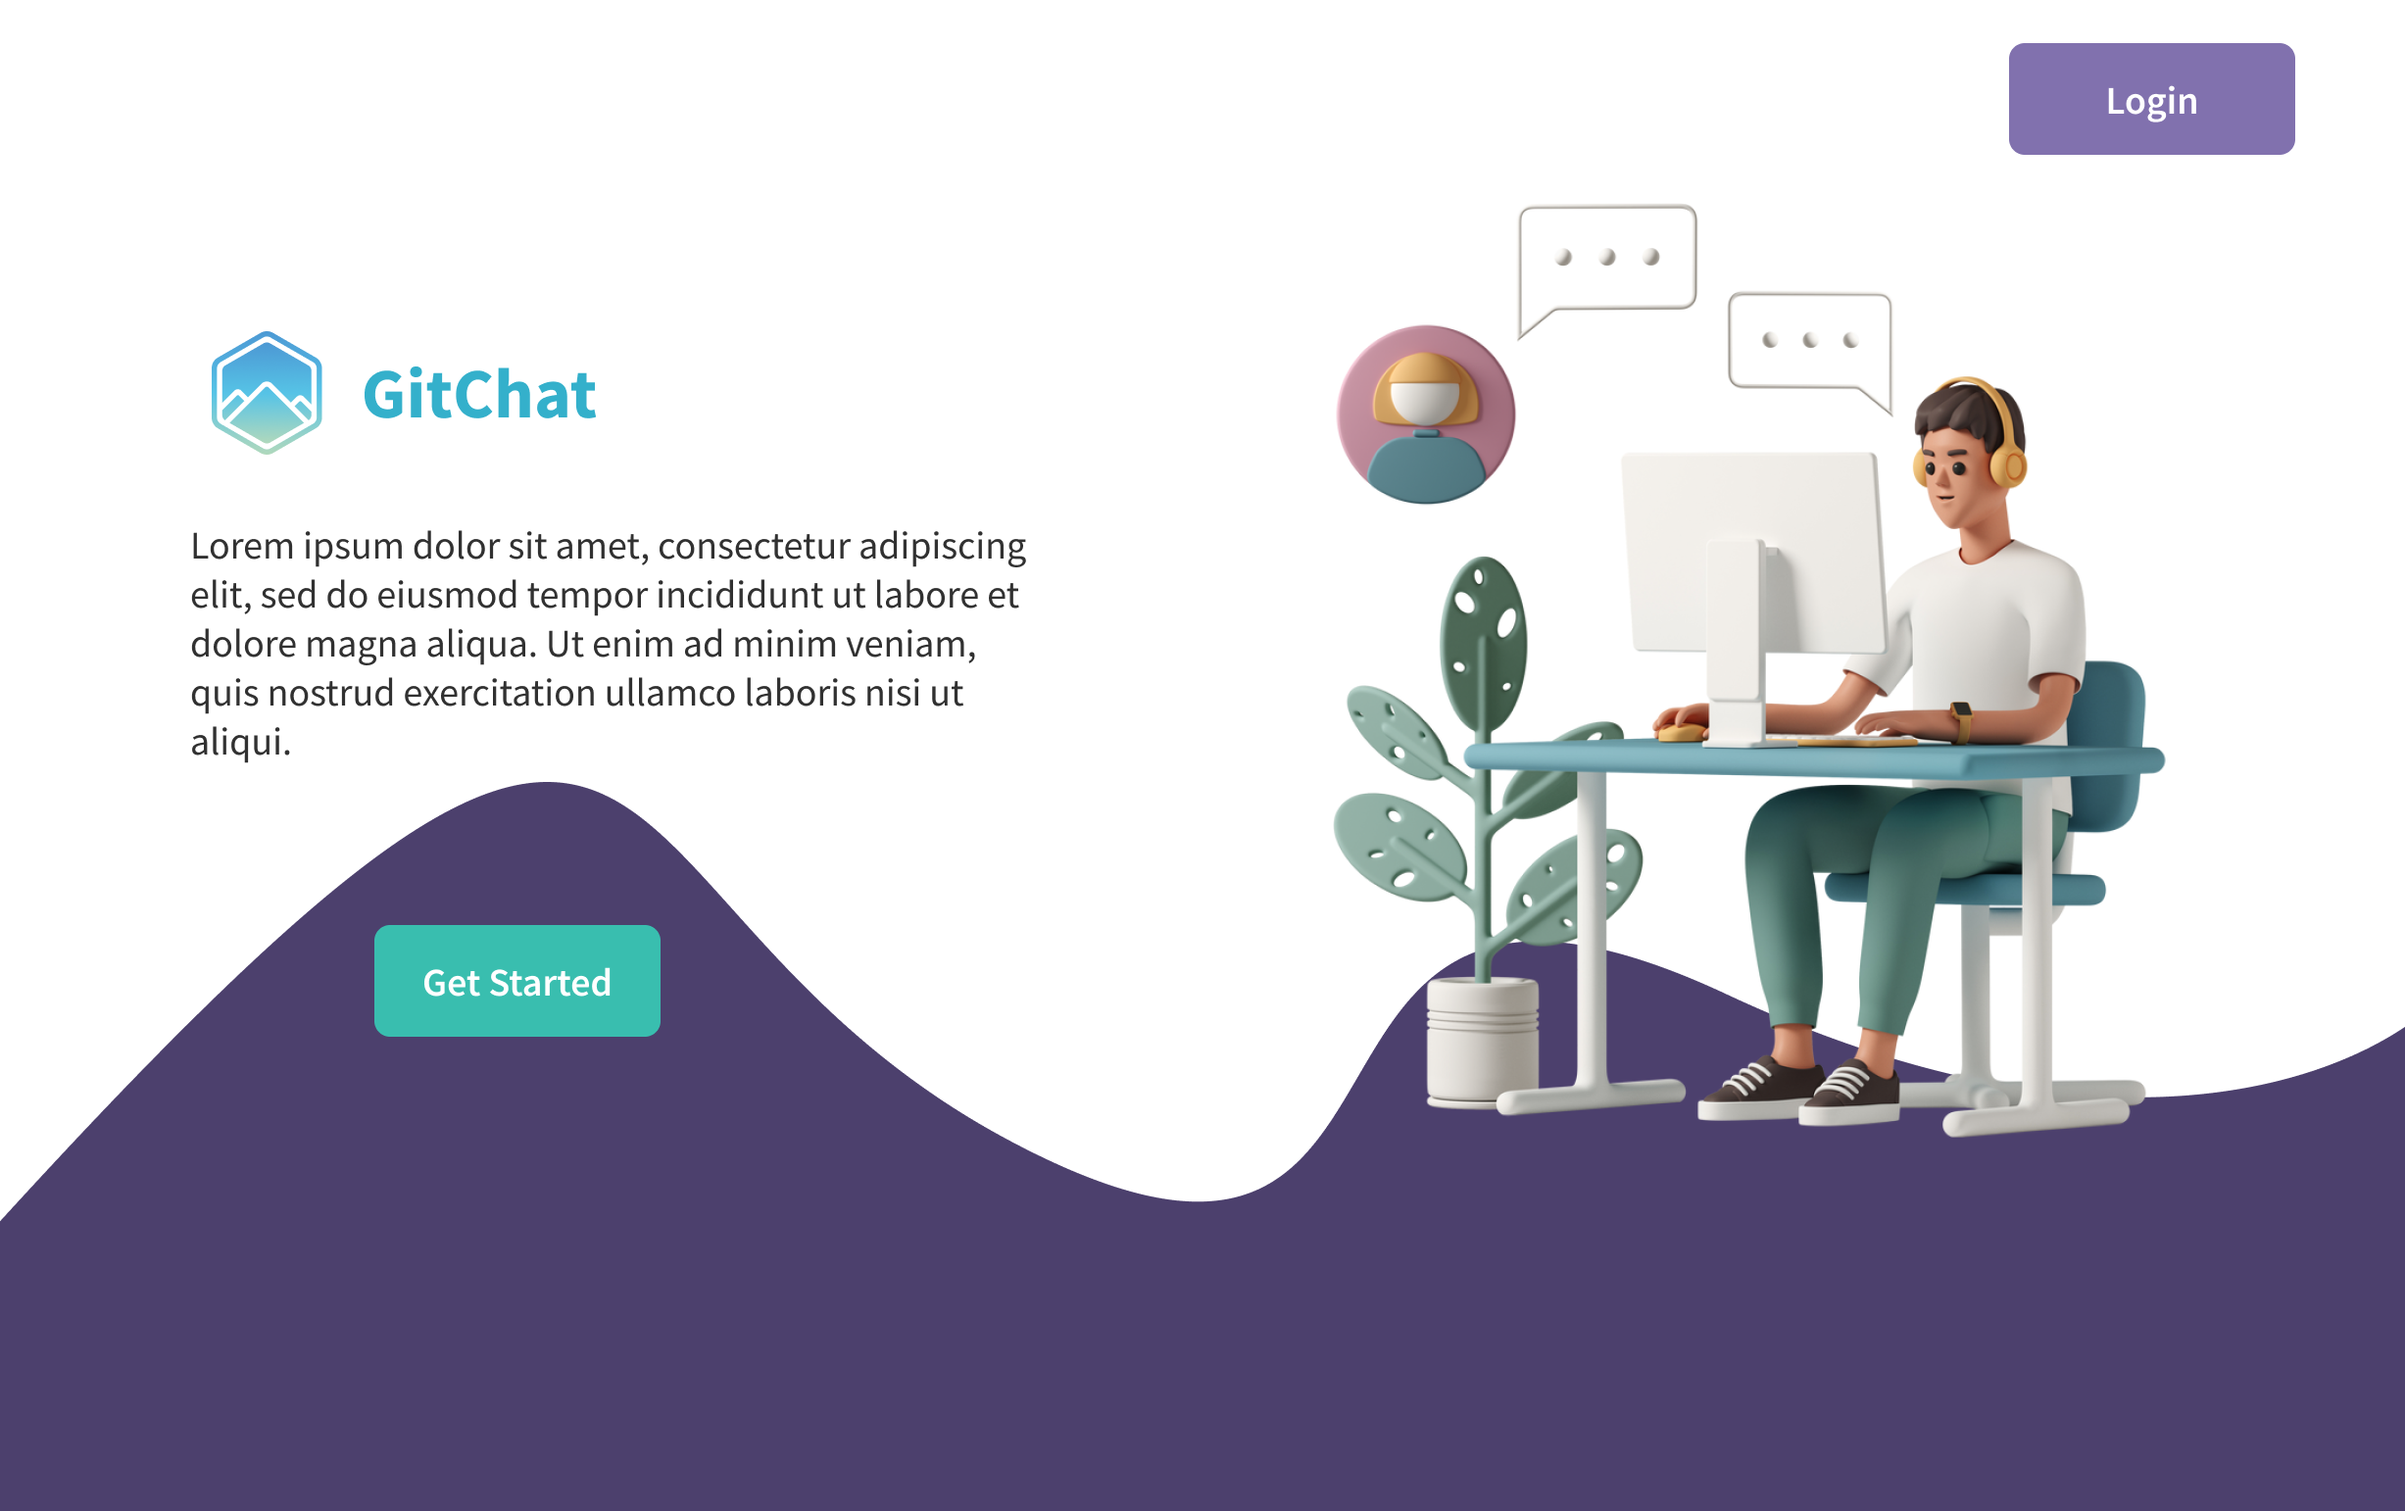
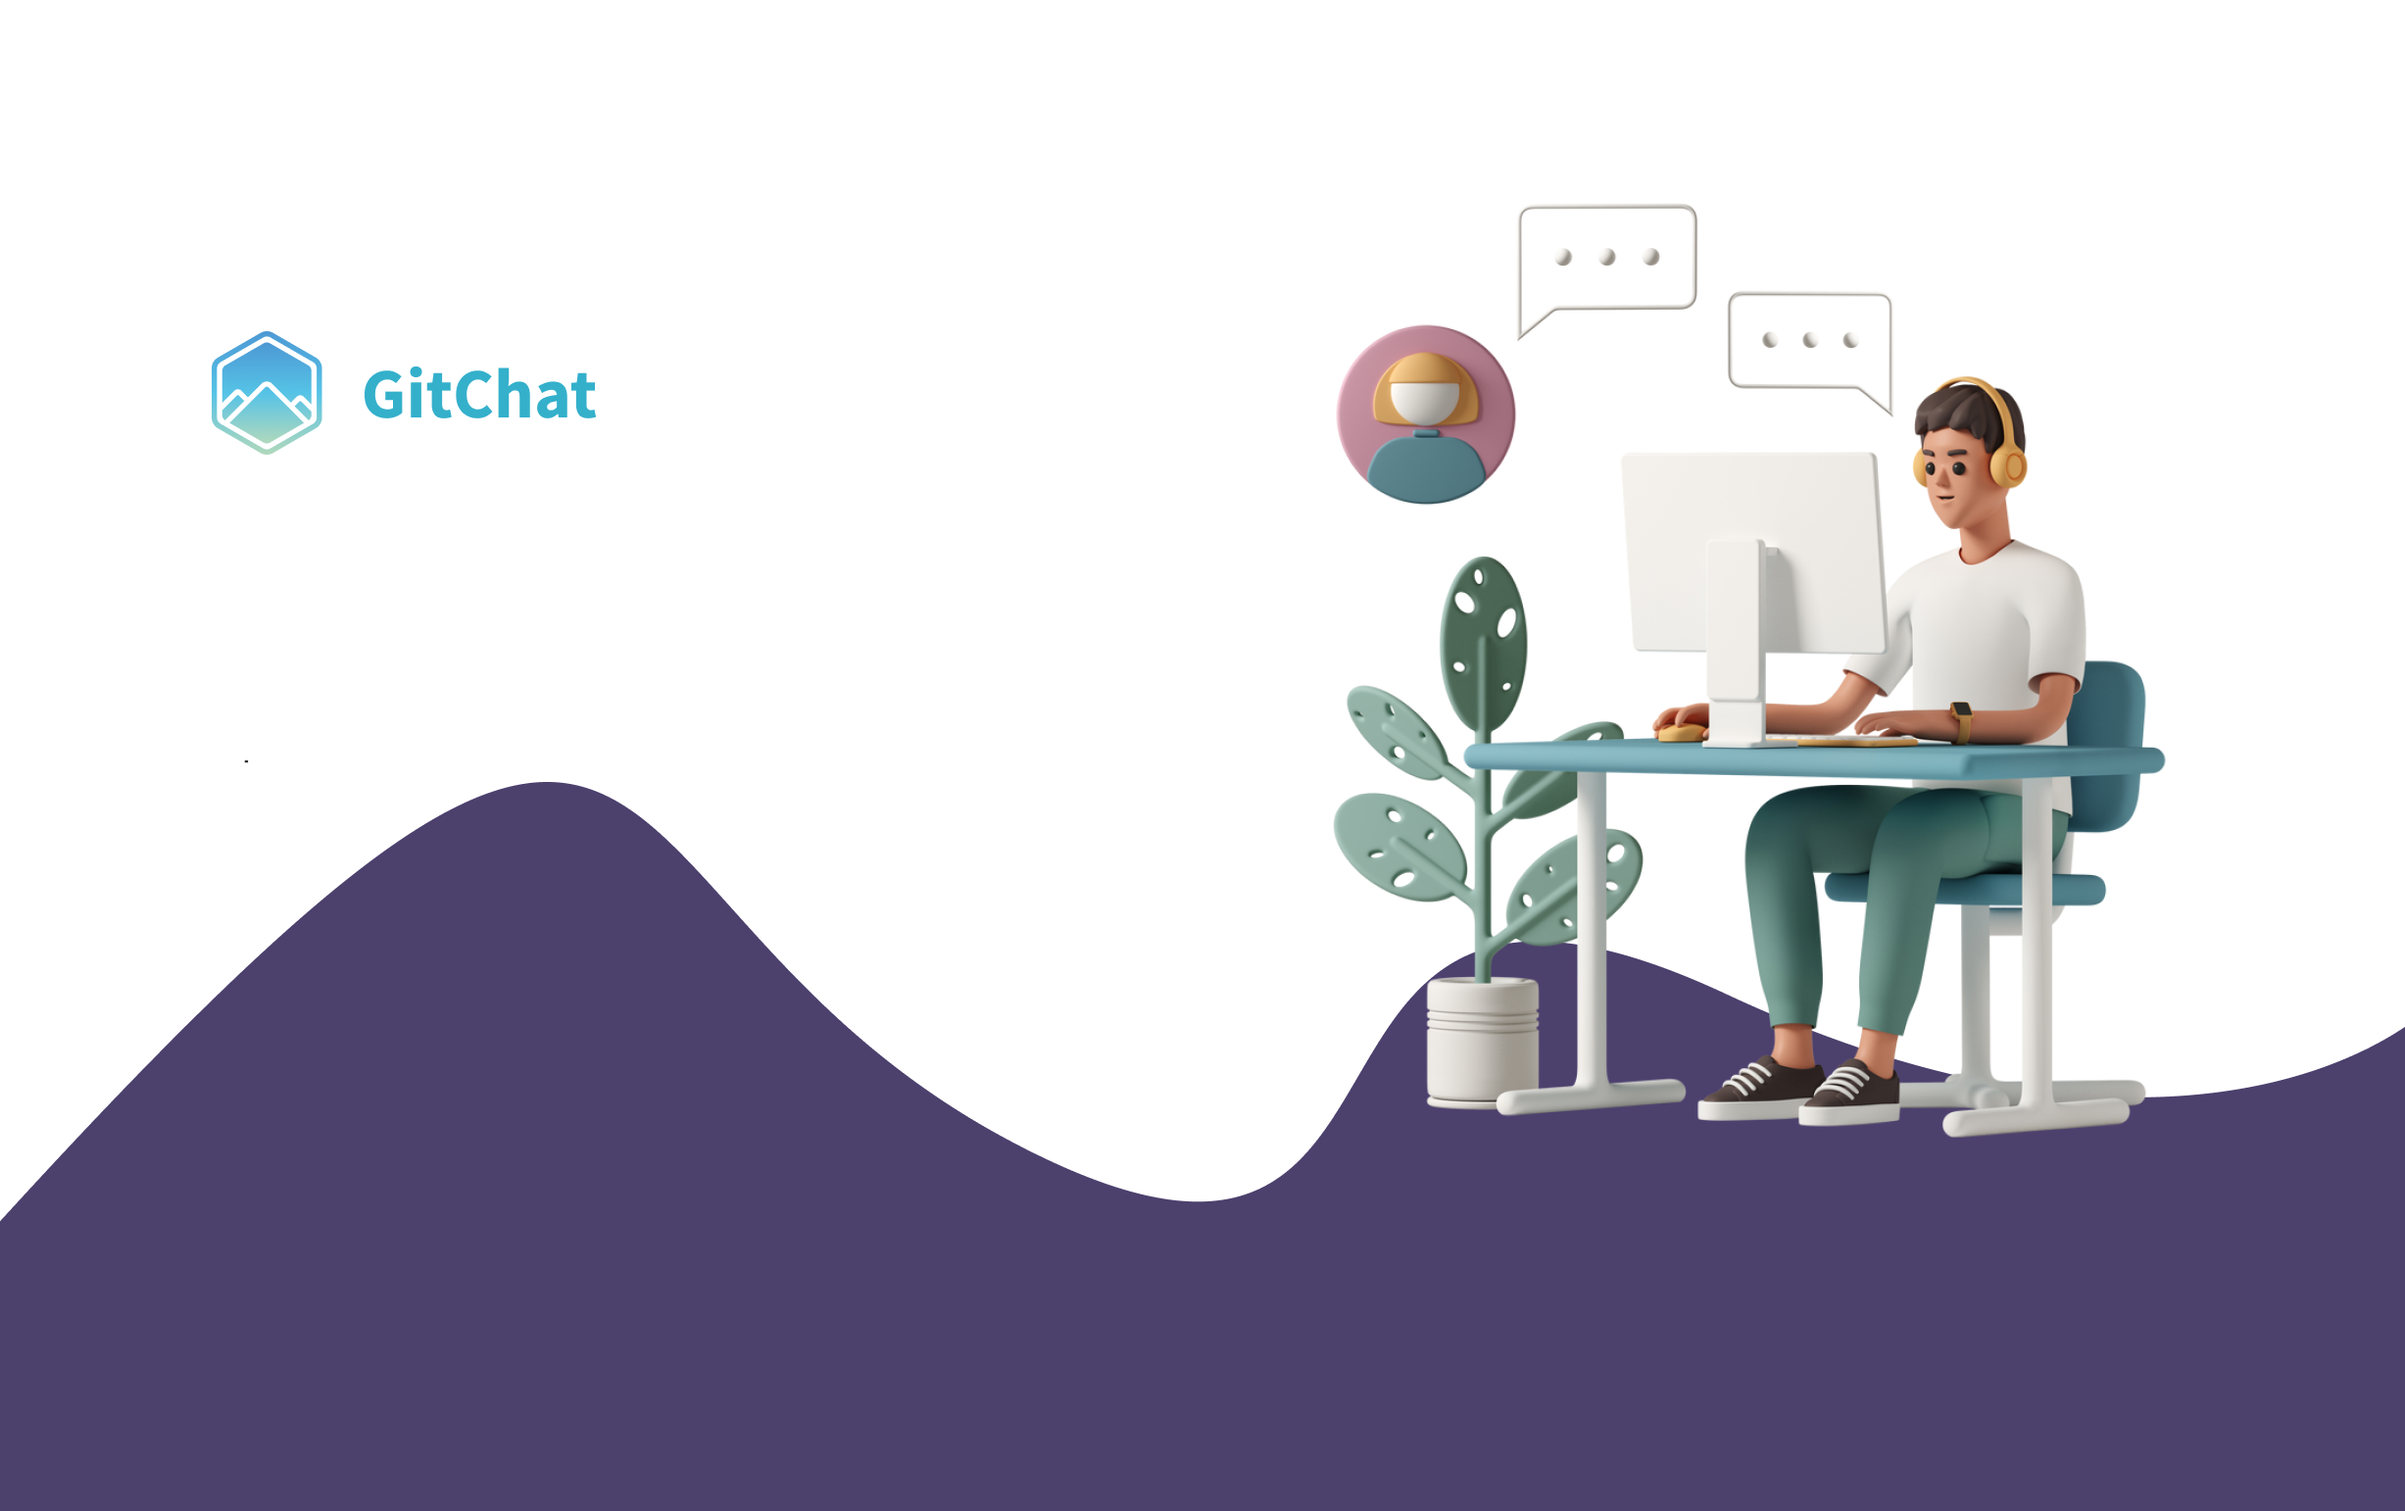
fixedcss

Changed region(s): [[0.0929, 0.3424, 0.4336, 0.4981], [0.8362, 0.0311, 0.9601, 0.1245], [0.1548, 0.5914, 0.2787, 0.6848]]

diff --git a/Proj2landing/landing.css b/Proj2landing/landing.css
@@ -1,28 +1,38 @@
+html,body
+{
+    width: 100%;
+    height: 100%;
+    margin: 0px;
+    padding: 0px;
+    overflow-x: hidden; 
+}
+
+
 body {
-  background-color: powderblue;
+  background-color: rgb(255, 255, 255);
 }
 
 img {
-  height: auto;
-  max-width: 100%;
+  height: 100vh;
+  max-width: 100vh;
 }
 
 .btn--primary {
   position: absolute;
   width: 180px;
   height: 75px;
-  left: 1180px;
-  top: 27px;
+  left: 670px;
+  top: 60px;
   border-radius: 20px;
   font-family: "Source Sans Pro";
   font-style: normal;
-  font-weight: 600;
+  font-weight: 550;
   font-size: 40px;
   line-height: 20px;
   display: flex;
   align-items: center;
   text-align: center;
-  padding: 32px 36px;
+  padding: 25px 25px;
   color: #050505;
   background: rgb(81, 25, 133);
   color: white;
@@ -38,18 +48,18 @@ img {
   position: absolute;
   width: 180px;
   height: 80px;
-  left: 223px;
+  left: 97px;
   top: 540px;
   border-radius: 20px;
   font-family: "Source Sans Pro";
   font-style: normal;
-  font-weight: 600;
+  font-weight: 550;
   font-size: 35px;
-  line-height: 20px;
+  line-height: 28px;
   display: flex;
   align-items: center;
   text-align: center;
-  padding: 32px 36px;
+  padding: 25px 25px;
   background: rgb(43, 158, 190);
   color: white;
   box-shadow: 8px 12px 10px 2px #000000;

diff --git a/Proj2landing/landing.html b/Proj2landing/landing.html
@@ -6,7 +6,6 @@
     <meta name="viewport" content="width=device-width, initial-scale=1.0" />
     <title>Git Chat</title>
     <link rel="stylesheet" href="landing.css" />
-    <script src="script.js"></script>
   </head>
   <body>
     <img src="landingimg.png" alt="Landing Page" />
